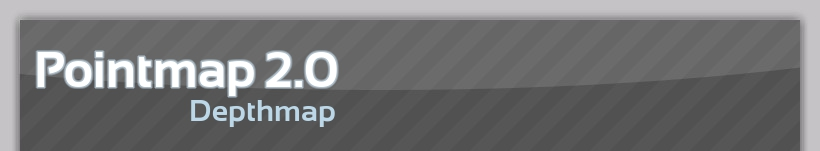
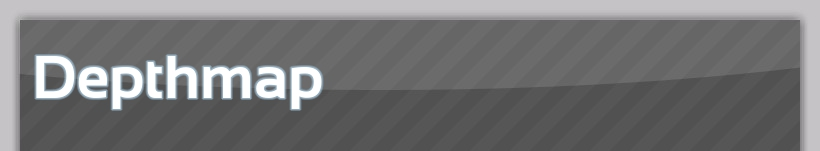
Converted pointmap2 into depthmap

Changed region(s): [[0.0305, 0.3179, 0.4268, 0.8477]]

diff --git a/public/css/main.css b/public/css/main.css
@@ -169,7 +169,7 @@ a:hover { color: #9CC3DE;}
 }
 
 table {
-	border: 1px dotted black;
+	border: 1px solid black;
 	width: 100%;
 }
 
@@ -183,7 +183,7 @@ table.sortable thead {
 th {
 	border-bottom: 1px solid black;
 	border-right: 1px solid black;
-	background-color: #cecece;
+	background-color: #bfd9ea;
 	padding: 2px;
 }
 

diff --git a/app/controllers/pointmaps_controller.rb b/app/controllers/pointmaps_controller.rb
@@ -3,8 +3,8 @@ class PointmapsController < ApplicationController
   before_filter :editable, :only => [:edit, :destroy, :update]
   before_filter :viewable, :only => [:show, :download]
 
-  # GET /pointmaps
-  # GET /pointmaps.xml
+  # GET /depthmaps
+  # GET /depthmaps.xml
   def index
     @pointmaps = Pointmap.find(:all, :conditions => ["user_id = ? OR public = ?", current_user.id, true])
 
@@ -14,8 +14,8 @@ class PointmapsController < ApplicationController
     end
   end
 
-  # GET /pointmaps/1
-  # GET /pointmaps/1.xml
+  # GET /depthmaps/1
+  # GET /depthmaps/1.xml
   def show
     @pointmap = Pointmap.find(params[:id])
 
@@ -25,8 +25,8 @@ class PointmapsController < ApplicationController
     end
   end
 
-  # GET /pointmaps/new
-  # GET /pointmaps/new.xml
+  # GET /depthmaps/new
+  # GET /depthmaps/new.xml
   def new
     @pointmap = Pointmap.new
 
@@ -36,13 +36,13 @@ class PointmapsController < ApplicationController
     end
   end
 
-  # GET /pointmaps/1/edit
+  # GET /depthmaps/1/edit
   def edit
     @pointmap = Pointmap.find(params[:id])
   end
 
-  # POST /pointmaps
-  # POST /pointmaps.xml
+  # POST /depthmaps
+  # POST /depthmaps.xml
   def create
     @pointmap = Pointmap.new(params[:pointmap])
     if params[:pointmap][:csv]
@@ -62,8 +62,8 @@ class PointmapsController < ApplicationController
     end
   end
 
-  # PUT /pointmaps/1
-  # PUT /pointmaps/1.xml
+  # PUT /depthmaps/1
+  # PUT /depthmaps/1.xml
   def update
     @pointmap = Pointmap.find(params[:id])
     if params[:pointmap][:csv]
@@ -83,15 +83,15 @@ class PointmapsController < ApplicationController
     end
   end
 
-  # DELETE /pointmaps/1
-  # DELETE /pointmaps/1.xml
+  # DELETE /depthmaps/1
+  # DELETE /depthmaps/1.xml
   def destroy
     @pointmap = Pointmap.find(params[:id])
     flash[:notice] = "#{@pointmap.name} was successfully deleted."
     @pointmap.destroy
 
     respond_to do |format|
-      format.html { redirect_to(pointmaps_url) }
+      format.html { redirect_to(depthmaps_url) }
       format.xml  { head :ok }
     end
   end

diff --git a/config/routes.rb b/config/routes.rb
@@ -39,8 +39,9 @@ ActionController::Routing::Routes.draw do |map|
   # Note: These default routes make all actions in every controller accessible via GET requests. You should
   # consider removing or commenting them out if you're using named routes and resources.
   map.resource :user_session
-  map.resources :pointmaps
+  map.resources :depthmaps, :controller => "pointmaps"
   map.resource :account, :controller => "users"
+  map.resources :pointmaps #This is just in case I forgot to change a route.  Should be taken out later though.
   map.connect ':controller/:action/:id'
   map.connect ':controller/:action/:id.:format'
   map.root :controller => "home"

diff --git a/app/controllers/application_controller.rb b/app/controllers/application_controller.rb
@@ -47,14 +47,14 @@ class ApplicationController < ActionController::Base
   def viewable
     pointmapInstance = Pointmap.find(params[:id])
   	if pointmapInstance.user_id != current_user.id && !pointmapInstance.public
-  	  redirect_to pointmaps_path
+  	  redirect_to depthmaps_path
   	  return false
   	end
   end
 
   def editable
   	if Pointmap.find(params[:id]).user_id != current_user.id
-  	  redirect_to pointmaps_path
+  	  redirect_to depthmaps_path
   	  return false
   	end
   end

diff --git a/app/controllers/user_sessions_controller.rb b/app/controllers/user_sessions_controller.rb
@@ -10,7 +10,7 @@ class UserSessionsController < ApplicationController
     @user_session = UserSession.new(params[:user_session])
     if @user_session.save
       flash[:notice] = "Login successful!"
-      redirect_back_or_default pointmaps_url
+      redirect_back_or_default depthmaps_url
     else
       render :action => :new
     end

diff --git a/app/controllers/home_controller.rb b/app/controllers/home_controller.rb
@@ -6,12 +6,6 @@ class HomeController < ApplicationController
   def contact
   end
 
-  def publications
-  end
-
-  def videos
-  end
-
   def oil_spill
   	@files = []
   	Dir.new("/home/jori/pointmap2-depthmap/public/files").each do |curFile|
